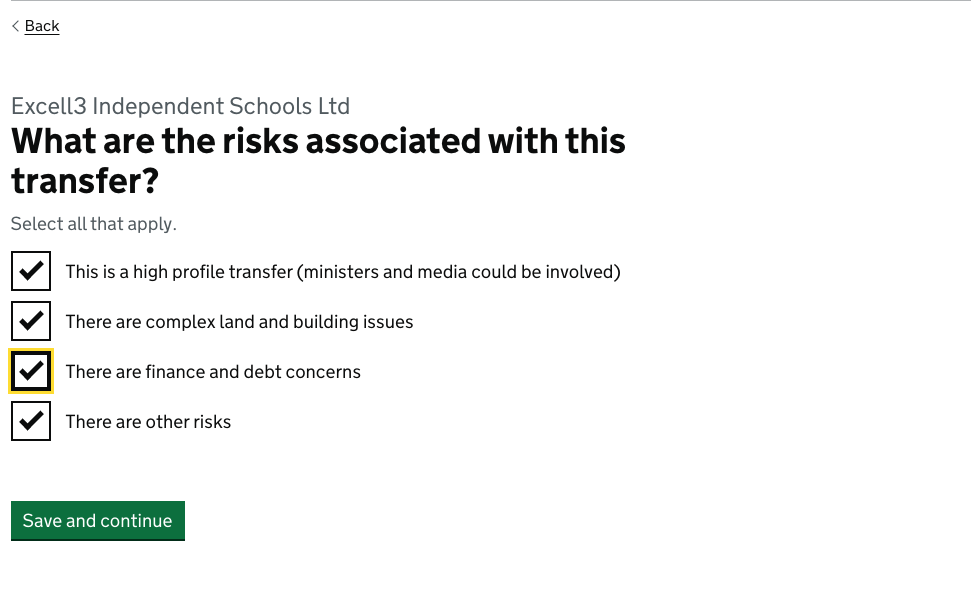
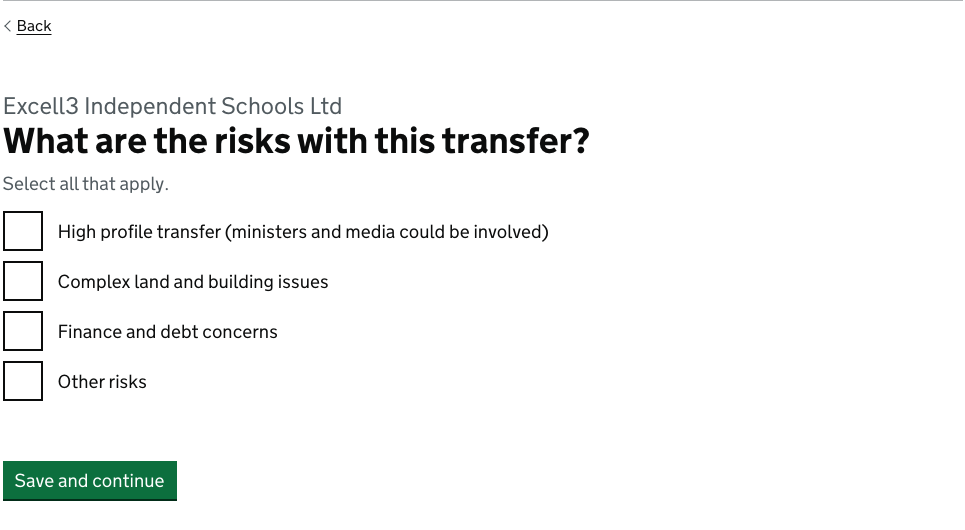
Update risks

Changed region(s): [[0.0, 0.1509, 0.6528, 0.7547], [0.0, 0.8151, 0.2176, 0.966], [0.0, 0.0302, 0.0622, 0.0604]]

diff --git a/app/posts/transfers/2022-02-10-benefits-and-risks.md b/app/posts/transfers/2022-02-10-benefits-and-risks.md
@@ -4,7 +4,7 @@ description: Why we changed a service task name from Benefits and other factors
 date: 2021-10-27
 ---
 
-We learned from user research that the name "Benefits and other factors" doesn't resonate with the delivery officers in the Manage an academy transfer service.
+We learned from user research that the name Benefits and other factors doesn't resonate with the delivery officers in the Manage an academy transfer service.
 
 Here is a snippet from one of our user research interviews:
 
@@ -27,15 +27,11 @@ To make the questions clearer and relevant to the delivery officer, we made an u
 
 Rather than asking the delivery officer “Are there any other factors to consider during this transfer”, we changed the question to: "**Are there any risks to consider for this transfer?**”. If the delivery officer answers yes to the question, we then ask the delivery officer a follow up question to select the risks associated with the transfer.
 
-![Benefits and risks task page](/images/transfers/benefits-and-risks/image-2.gif)
-
-Benefits and risks task page
-
 ## Screenshots
 
 [Benefits and risks summary page](#benefits-and-risks-summary-page)
 [Are there any risks to consider](#are-there-any-risks-to-consider)
-[What are the risks associated with this transfer](#what-are-the-risks-associated-with-this-transfer)
+[What are the risks with this transfer](#what-are-the-risks-with-this-transfer)
 [Why is this a high profile transfer](#why-is-this-a-high-profile-transfer)
 [What complex land and building issues are there](#what-complex-land-and-building-issues-are-there)
 [What other risks are there](#what-other-risks-are-there)
@@ -52,7 +48,7 @@ Benefits and risks task page
 
 ![Benefits and risks task page](/images/transfers/benefits-and-risks/image-4.png)
 
-### What are the risks associated with this transfer
+### What are the risks with this transfer
 
 ![Benefits and risks task page](/images/transfers/benefits-and-risks/image-5.png)
 
